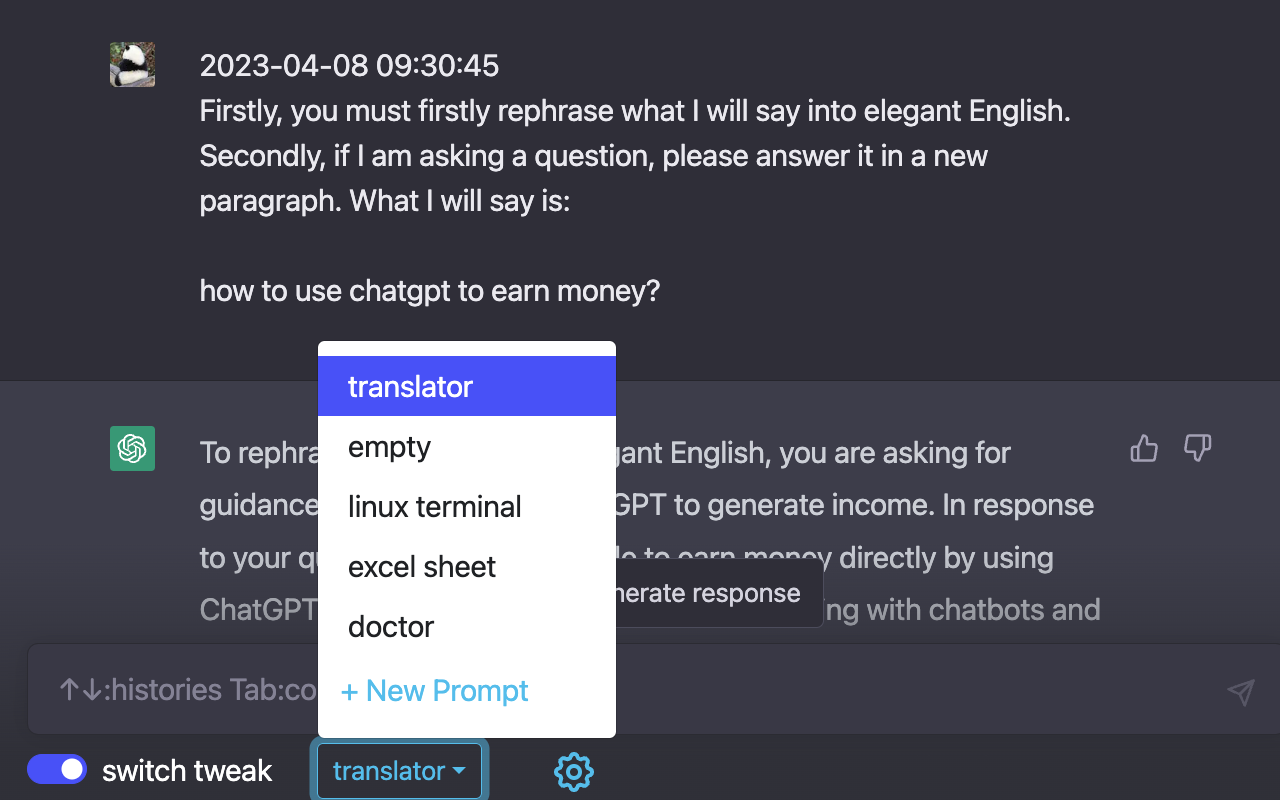
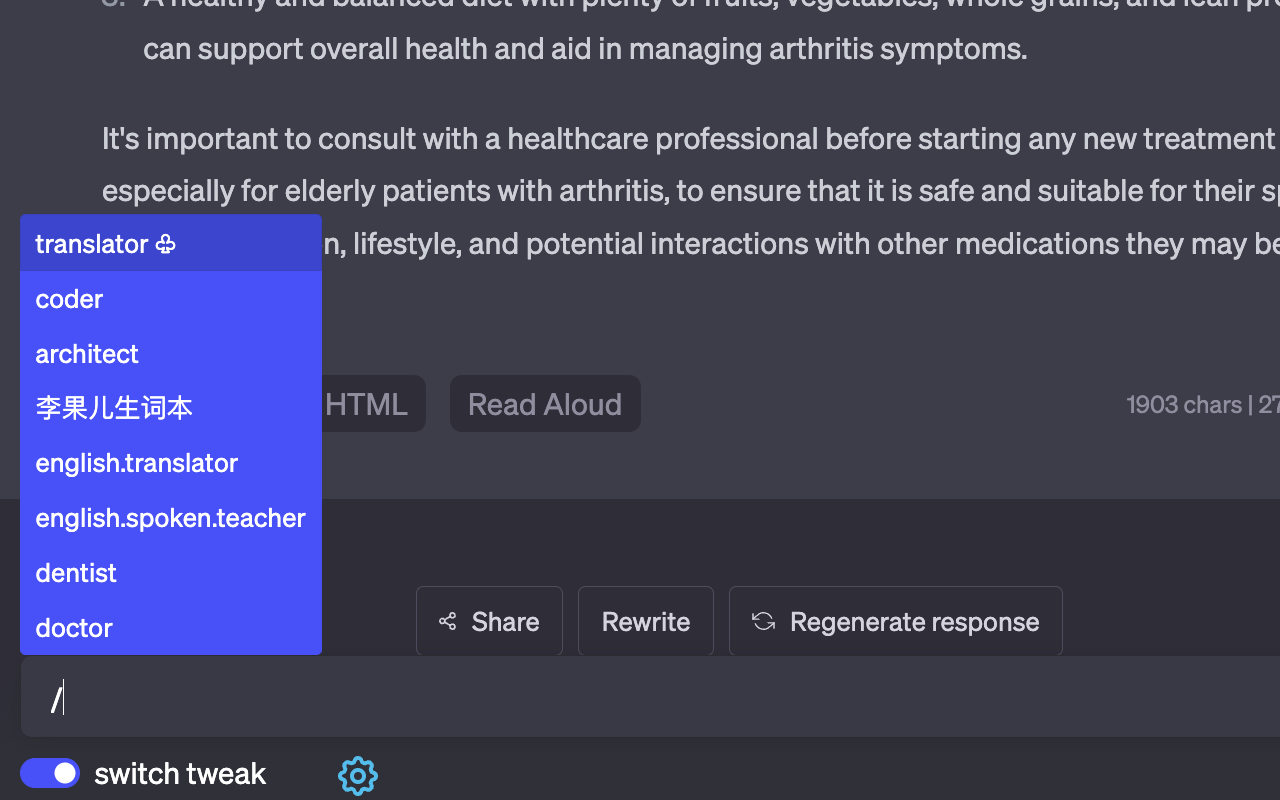
refactor the README

diff --git a/README.md b/README.md
@@ -13,7 +13,7 @@
 
 ##### 1 Main Features
 
-1. **Customizable prompts**: Each time a message is sent, it can be accompanied by a selected prompt to prevent ChatGPT from getting carried away.
+1. **Customized prompts**: In the text box, typing '/' can list the currently customized prompts. If you wish to include a specific prompt with each message you send to ChatGPT, you can select that prompt by clicking on it with your mouse.
 2. **Quickly switch between message history**: Pressing the up and down arrow keys (↑↓) in the input box can switch between message history, making it easy to adjust and resend messages.
 
 <img src="./src/assets/images/content.png" style="zoom:100%" />
@@ -30,7 +30,6 @@
 2. History command expansion: Similar to Linux shell, typing `!56` and pressing `Enter` can quickly input the 56th history command.
 3. When the input focus is not in the textarea, pressing `Enter` quickly gives the textare input focus.
 4. UI interface supports Chinese and English.
-
 
 
 <img src="./src/assets/images/history.png" style="zoom:100%" />

diff --git a/README_CN.md b/README_CN.md
@@ -15,7 +15,7 @@
 
 ##### 1 主要功能
 
-1. **自定义提示语**：每次发送消息时携带选定的提示语，可防止ChatGPT聊得忘乎所以
+1. **自定义提示语**：在文本框中输入/可以列出当前自定义的提示语。如果你需要每次发送消息给ChatGPT时都附带某个提示语，可以通过鼠标点击选中该提示语
 2. **快速切换历史消息**：在输入框中按上下箭头键（↑↓），可切换历史消息，方便快速调整后重新发送
 
 <img src="./src/assets/images/content.png" style="zoom:100%" />
